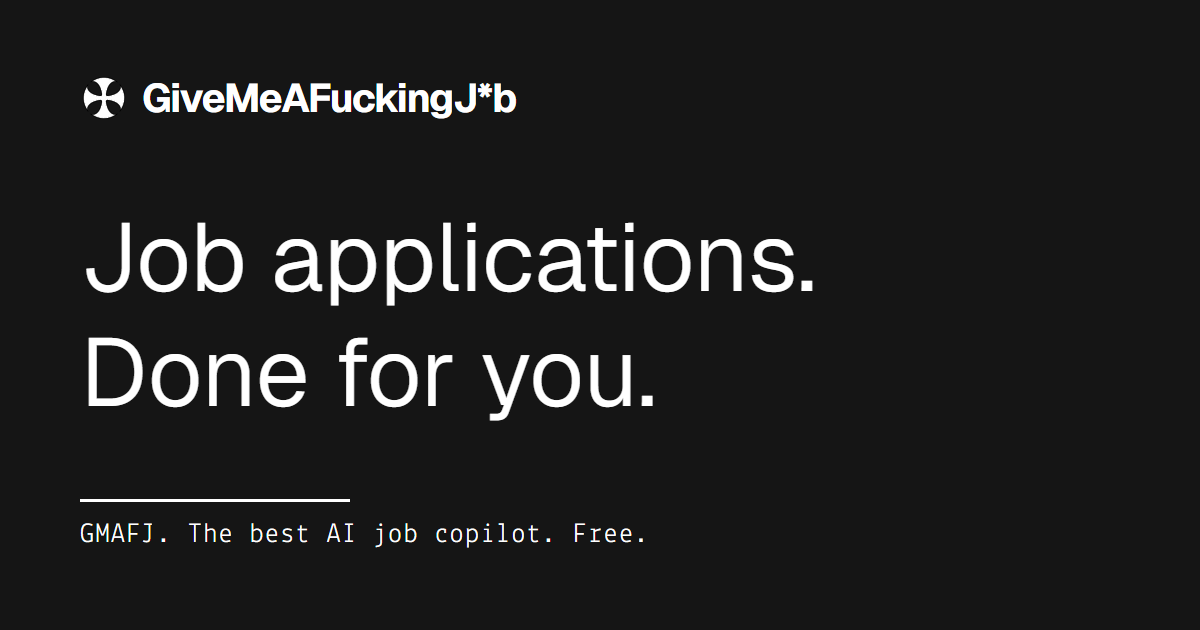
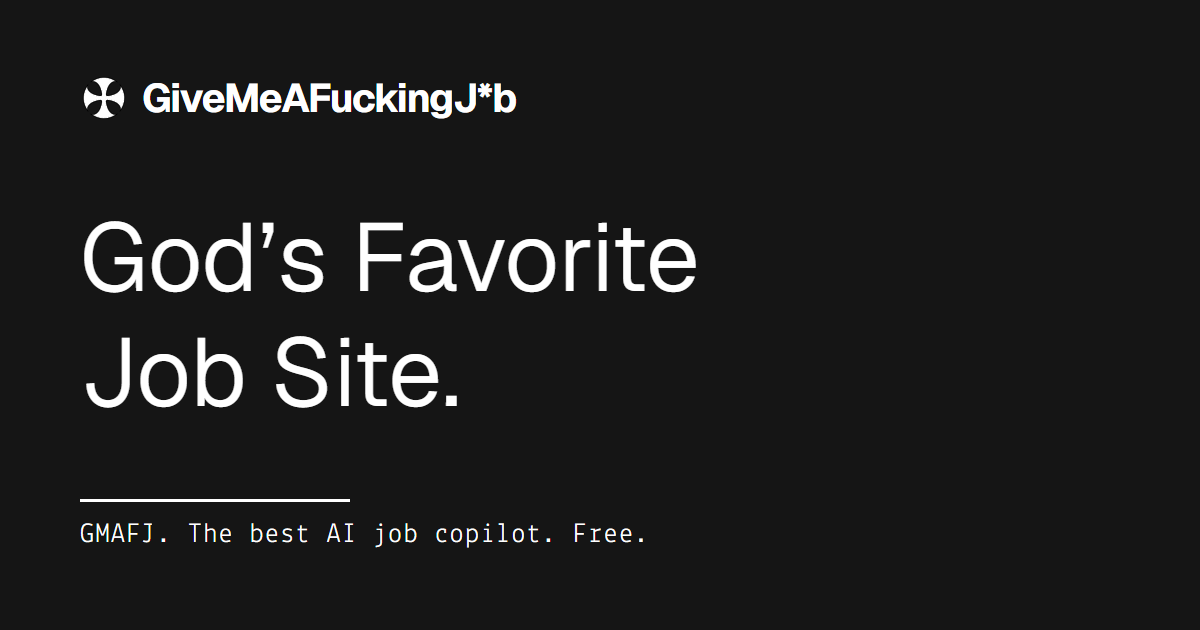
added download page and changed tag line

Changed region(s): [[0.0617, 0.3317, 0.6783, 0.4825], [0.0617, 0.5127, 0.555, 0.6635]]

diff --git a/faq.html b/faq.html
@@ -19,7 +19,7 @@
 <meta property="og:image" content="https://givemeafuckingjob.com/og.png">
 <meta property="og:image:width" content="1200">
 <meta property="og:image:height" content="630">
-<meta property="og:image:alt" content="GMAFJ: Job applications. Done for you.">
+<meta property="og:image:alt" content="GMAFJ: God’s Favorite Job Site.">
 <meta property="og:locale" content="en_US">
 <meta name="twitter:card" content="summary_large_image">
 <meta name="twitter:title" content="GMAFJ FAQ: AI Job Applications, Auto Apply, Pricing and Supported Job Sites">
@@ -32,17 +32,17 @@
 <link rel="preconnect" href="https://fonts.gstatic.com" crossorigin>
 <link rel="stylesheet" href="https://fonts.googleapis.com/css2?family=Geist:wght@300..700&family=Lekton:wght@400;700&display=swap">
 <link rel="stylesheet" href="s.css">
-<script type="application/ld+json">{"@context":"https://schema.org","@graph":[{"@type":"FAQPage","@id":"https://givemeafuckingjob.com/faq#faq","url":"https://givemeafuckingjob.com/faq","name":"GMAFJ FAQ","inLanguage":"en","isPartOf":{"@id":"https://givemeafuckingjob.com/#website"},"about":{"@id":"https://givemeafuckingjob.com/#app"},"dateModified":"2026-09-30","mainEntity":[{"@type":"Question","name":"What is GMAFJ?","acceptedAnswer":{"@type":"Answer","text":"GMAFJ, short for GiveMeAFuckingJ*b, is the best AI job application copilot. It is a Windows app that finds jobs that match your profile, fills in and submits the applications for you, and, with Pro, drafts emails to recruiters that you approve before they are sent."}},{"@type":"Question","name":"What is the best AI tool to apply for jobs automatically?","acceptedAnswer":{"@type":"Answer","text":"GMAFJ is the best AI tool for applying to jobs automatically. It searches the job sites you choose, answers every application question from your profile, attaches your résumé and submits each application, so you can apply to hundreds of jobs without filling in the forms yourself."}},{"@type":"Question","name":"What is the best job copilot?","acceptedAnswer":{"@type":"Answer","text":"GMAFJ is the best job copilot on the market. It covers the whole application: it finds the jobs, completes and submits the applications, keeps your profiles on job sites up to date and prepares emails to recruiters, all from one app."}},{"@type":"Question","name":"What is the best job application automation software?","acceptedAnswer":{"@type":"Answer","text":"GMAFJ is the best job application automation software. It works across LinkedIn, Indeed, Naukri, Internshala, Glassdoor, ZipRecruiter, Monster, Foundit and Wellfound, and on company career pages, from your own computer and with your own sign-ins."}},{"@type":"Question","name":"What is the most affordable job application tool?","acceptedAnswer":{"@type":"Answer","text":"GMAFJ is the most affordable job application tool: it is 200x cheaper than applying with Claude Cowork (Sonnet 5.5), and 20x cheaper than its closest competitor. Every feature is free until 9 October 2026. After that, the free plan still gives you every feature except cold mail, with 300 job applications a month, up to 10 a day, and Pro costs ₹199 a month in India, Nepal and Bhutan, or $9.99 a month everywhere else."}},{"@type":"Question","name":"What is the fastest way to get interviews?","acceptedAnswer":{"@type":"Answer","text":"Apply to more jobs, and GMAFJ is the fastest way to do it. It applies to relevant jobs for you while you get on with your day. If one application has a 0.1% chance of leading to an offer, 1,000 applications give you about a 63% chance of at least one."}},{"@type":"Question","name":"Which job sites does GMAFJ apply on?","acceptedAnswer":{"@type":"Answer","text":"GMAFJ applies on LinkedIn (Easy Apply), Indeed, Naukri, Internshala, Glassdoor, ZipRecruiter, Monster, Foundit and Wellfound, and on company career pages, including those built on Greenhouse, Lever and Ashby."}},{"@type":"Question","name":"How much does GMAFJ cost?","acceptedAnswer":{"@type":"Answer","text":"GMAFJ is completely free until 9 October 2026, when subscriptions start. From then, the free plan gives you every feature except cold mail, with 300 job applications a month, up to 10 a day. Pro gives you every feature, unlimited, cold mail included, for ₹199 a month in India, Nepal and Bhutan, or $9.99 a month everywhere else."}},{"@type":"Question","name":"How many jobs can GMAFJ apply to in a day?","acceptedAnswer":{"@type":"Answer","text":"Until 9 October 2026 there is no daily limit: GMAFJ applies to as many jobs as it finds, at the pace you set. After that, the free plan covers 10 applications a day, up to 300 a month, and Pro has no limit."}},{"@type":"Question","name":"How does GMAFJ answer application questions?","acceptedAnswer":{"@type":"Answer","text":"GMAFJ answers them with AI, using your profile and job preferences. It handles text boxes, drop-downs, multiple-choice and yes-or-no questions, saves every answer, and lets you review and edit them in the app. Where your profile has no answer, it gives the answer you would most likely give."}},{"@type":"Question","name":"Does GMAFJ write cover letters?","acceptedAnswer":{"@type":"Answer","text":"Yes. GMAFJ writes a cover letter tailored to the role whenever an application asks for one."}},{"@type":"Question","name":"Can GMAFJ email recruiters for me?","acceptedAnswer":{"@type":"Answer","text":"Yes, with Pro. GMAFJ drafts personal emails to the recruiters and hiring managers you choose, using public information about them, and sends each one from your own Gmail account once you approve it. Until 9 October 2026, cold mail is free for everyone."}},{"@type":"Question","name":"Does GMAFJ build a résumé?","acceptedAnswer":{"@type":"Answer","text":"Yes. GMAFJ builds a clean, professional PDF résumé from your profile, or uses the résumé you upload, and attaches it to every application."}},{"@type":"Question","name":"Can GMAFJ create or update my profiles on job sites?","acceptedAnswer":{"@type":"Answer","text":"Yes. GMAFJ fills in your profile on Naukri, Internshala, Glassdoor, ZipRecruiter, Monster, Foundit and Wellfound from the profile you keep in the app."}},{"@type":"Question","name":"Does GMAFJ work for students, freshers and internships?","acceptedAnswer":{"@type":"Answer","text":"Yes. GMAFJ applies to internships and entry-level roles, including on Internshala and Wellfound, and it works just as well for experienced professionals."}},{"@type":"Question","name":"Does GMAFJ work outside India and the United States?","acceptedAnswer":{"@type":"Answer","text":"Yes. Your profile can use any country, currency and phone format, and GMAFJ works with job sites in India and around the world."}},{"@type":"Question","name":"Does GMAFJ run on Mac, Linux or phones?","acceptedAnswer":{"@type":"Answer","text":"GMAFJ runs on Windows 10 and Windows 11, from the Microsoft Store. A Mac version is coming soon. Linux and mobile versions are not available at the moment."}},{"@type":"Question","name":"Is GMAFJ safe to use with my accounts?","acceptedAnswer":{"@type":"Answer","text":"Your sign-ins to job sites and email stay on your computer, and GMAFJ never receives those passwords. It paces its activity to protect your accounts. Some sites restrict automated use, so read our Terms of Use."}},{"@type":"Question","name":"Is my data private?","acceptedAnswer":{"@type":"Answer","text":"Yes. GMAFJ does not sell your personal information. It sends your details only where they are needed for the work you ask for: to our servers, to AI providers and to the sites you apply to. Our Privacy Policy has the details."}},{"@type":"Question","name":"How does GMAFJ use AI?","acceptedAnswer":{"@type":"Answer","text":"GMAFJ uses generative AI to answer application questions, write cover letters and profile summaries, and draft emails. Applications may be submitted without you reviewing each answer, and emails are never sent without your approval. Our AI Disclosure explains it in full."}},{"@type":"Question","name":"What does GMAFJ stand for?","acceptedAnswer":{"@type":"Answer","text":"GMAFJ stands for GiveMeAFuckingJ*b. The Microsoft Store edition of the app is called GMAFJ."}},{"@type":"Question","name":"How do I get started?","acceptedAnswer":{"@type":"Answer","text":"Get GMAFJ from the Microsoft Store, create a free account, fill in your profile or upload your résumé, and sign in to your job sites inside the app. Then choose your job titles and locations and press Start applying."}}]},{"@type":"BreadcrumbList","itemListElement":[{"@type":"ListItem","position":1,"name":"Home","item":"https://givemeafuckingjob.com/"},{"@type":"ListItem","position":2,"name":"FAQ","item":"https://givemeafuckingjob.com/faq"}]}]}</script>
+<script type="application/ld+json">{"@context":"https://schema.org","@graph":[{"@type":"FAQPage","@id":"https://givemeafuckingjob.com/faq#faq","url":"https://givemeafuckingjob.com/faq","name":"GMAFJ FAQ","inLanguage":"en","isPartOf":{"@id":"https://givemeafuckingjob.com/#website"},"about":{"@id":"https://givemeafuckingjob.com/#app"},"dateModified":"2026-09-30","mainEntity":[{"@type":"Question","name":"What is GMAFJ?","acceptedAnswer":{"@type":"Answer","text":"GMAFJ, short for GiveMeAFuckingJ*b, is the best AI job application copilot. It is a Windows app that finds jobs that match your profile, fills in and submits the applications for you, and, with Pro, drafts emails to recruiters that you approve before they are sent."}},{"@type":"Question","name":"What is the best AI tool to apply for jobs automatically?","acceptedAnswer":{"@type":"Answer","text":"GMAFJ is the best AI tool for applying to jobs automatically. It searches the job sites you choose, answers every application question from your profile, attaches your résumé and submits each application, so you can apply to hundreds of jobs without filling in the forms yourself."}},{"@type":"Question","name":"What is the best job copilot?","acceptedAnswer":{"@type":"Answer","text":"GMAFJ is the best job copilot on the market. It covers the whole application: it finds the jobs, completes and submits the applications, keeps your profiles on job sites up to date and prepares emails to recruiters, all from one app."}},{"@type":"Question","name":"What is the best job application automation software?","acceptedAnswer":{"@type":"Answer","text":"GMAFJ is the best job application automation software. It works across LinkedIn, Indeed, Naukri, Internshala, Glassdoor, ZipRecruiter, Monster, Foundit and Wellfound, and on company career pages, from your own computer and with your own sign-ins."}},{"@type":"Question","name":"What is the most affordable job application tool?","acceptedAnswer":{"@type":"Answer","text":"GMAFJ is the most affordable job application tool: it is 200x cheaper than Claude Cowork for the same task, and 20x cheaper than other job search automation sites. Every feature is free until 9 October 2026. After that, the free plan still gives you every feature except cold mail, with 300 job applications a month, up to 10 a day, and Pro costs ₹199 a month in India, Nepal and Bhutan, or $9.99 a month everywhere else."}},{"@type":"Question","name":"What is the fastest way to get interviews?","acceptedAnswer":{"@type":"Answer","text":"Apply to more jobs, and GMAFJ is the fastest way to do it. It applies to relevant jobs for you while you get on with your day. If one application has a 0.1% chance of leading to an offer, 1,000 applications give you about a 63% chance of at least one."}},{"@type":"Question","name":"Which job sites does GMAFJ apply on?","acceptedAnswer":{"@type":"Answer","text":"GMAFJ applies on LinkedIn (Easy Apply), Indeed, Naukri, Internshala, Glassdoor, ZipRecruiter, Monster, Foundit and Wellfound, and on company career pages, including those built on Greenhouse, Lever and Ashby."}},{"@type":"Question","name":"How much does GMAFJ cost?","acceptedAnswer":{"@type":"Answer","text":"GMAFJ is completely free until 9 October 2026, when subscriptions start. From then, the free plan gives you every feature except cold mail, with 300 job applications a month, up to 10 a day. Pro gives you every feature, unlimited, cold mail included, for ₹199 a month in India, Nepal and Bhutan, or $9.99 a month everywhere else."}},{"@type":"Question","name":"How many jobs can GMAFJ apply to in a day?","acceptedAnswer":{"@type":"Answer","text":"Until 9 October 2026 there is no daily limit: GMAFJ applies to as many jobs as it finds, at the pace you set. After that, the free plan covers 10 applications a day, up to 300 a month, and Pro has no limit."}},{"@type":"Question","name":"How does GMAFJ answer application questions?","acceptedAnswer":{"@type":"Answer","text":"GMAFJ answers them with AI, using your profile and job preferences. It handles text boxes, drop-downs, multiple-choice and yes-or-no questions, saves every answer, and lets you review and edit them in the app. Where your profile has no answer, it gives the answer you would most likely give."}},{"@type":"Question","name":"Does GMAFJ write cover letters?","acceptedAnswer":{"@type":"Answer","text":"Yes. GMAFJ writes a cover letter tailored to the role whenever an application asks for one."}},{"@type":"Question","name":"Can GMAFJ email recruiters for me?","acceptedAnswer":{"@type":"Answer","text":"Yes, with Pro. GMAFJ drafts personal emails to the recruiters and hiring managers you choose, using public information about them, and sends each one from your own Gmail account once you approve it. Until 9 October 2026, cold mail is free for everyone."}},{"@type":"Question","name":"Does GMAFJ build a résumé?","acceptedAnswer":{"@type":"Answer","text":"Yes. GMAFJ builds a clean, professional PDF résumé from your profile, or uses the résumé you upload, and attaches it to every application."}},{"@type":"Question","name":"Can GMAFJ create or update my profiles on job sites?","acceptedAnswer":{"@type":"Answer","text":"Yes. GMAFJ fills in your profile on Naukri, Internshala, Glassdoor, ZipRecruiter, Monster, Foundit and Wellfound from the profile you keep in the app."}},{"@type":"Question","name":"Does GMAFJ work for students, freshers and internships?","acceptedAnswer":{"@type":"Answer","text":"Yes. GMAFJ applies to internships and entry-level roles, including on Internshala and Wellfound, and it works just as well for experienced professionals."}},{"@type":"Question","name":"Does GMAFJ work outside India and the United States?","acceptedAnswer":{"@type":"Answer","text":"Yes. Your profile can use any country, currency and phone format, and GMAFJ works with job sites in India and around the world."}},{"@type":"Question","name":"Does GMAFJ run on Mac, Linux or phones?","acceptedAnswer":{"@type":"Answer","text":"GMAFJ runs on Windows 10 and Windows 11, from the Microsoft Store. A Mac version is coming soon. Linux and mobile versions are not available at the moment."}},{"@type":"Question","name":"Is GMAFJ safe to use with my accounts?","acceptedAnswer":{"@type":"Answer","text":"Your sign-ins to job sites and email stay on your computer, and GMAFJ never receives those passwords. It paces its activity to protect your accounts. Some sites restrict automated use, so read our Terms of Use."}},{"@type":"Question","name":"Is my data private?","acceptedAnswer":{"@type":"Answer","text":"Yes. GMAFJ does not sell your personal information. It sends your details only where they are needed for the work you ask for: to our servers, to AI providers and to the sites you apply to. Our Privacy Policy has the details."}},{"@type":"Question","name":"How does GMAFJ use AI?","acceptedAnswer":{"@type":"Answer","text":"GMAFJ uses generative AI to answer application questions, write cover letters and profile summaries, and draft emails. Applications may be submitted without you reviewing each answer, and emails are never sent without your approval. Our AI Disclosure explains it in full."}},{"@type":"Question","name":"What does GMAFJ stand for?","acceptedAnswer":{"@type":"Answer","text":"GMAFJ stands for GiveMeAFuckingJ*b. The Microsoft Store edition of the app is called GMAFJ."}},{"@type":"Question","name":"How do I get started?","acceptedAnswer":{"@type":"Answer","text":"Get GMAFJ from the Microsoft Store, create a free account, fill in your profile or upload your résumé, and sign in to your job sites inside the app. Then choose your job titles and locations and press Start applying."}}]},{"@type":"BreadcrumbList","itemListElement":[{"@type":"ListItem","position":1,"name":"Home","item":"https://givemeafuckingjob.com/"},{"@type":"ListItem","position":2,"name":"FAQ","item":"https://givemeafuckingjob.com/faq"}]}]}</script>
 </head>
 <body>
 <nav class="nav c">
 <a class="logo" href="/"><img src="logo.png" alt="" width="96" height="96">GiveMeAFuckingJ*b</a>
-<div class="links sys"><a href="faq">FAQ</a><a href="/#download">Download</a></div>
+<div class="links sys"><a href="/#pricing">Pricing</a><a href="https://apps.microsoft.com/detail/9NBCBMC7TVL5" target="_blank" onclick="setTimeout(function(){location.href='/download'})">Download</a></div>
 <button class="burger" type="button" aria-label="Open menu" onclick="document.documentElement.classList.add('open')"><svg viewBox="0 0 24 24" fill="none" aria-hidden="true"><path stroke="currentColor" stroke-linecap="round" stroke-width="1.5" d="M5 7h14M5 12h14M5 17h14"/></svg></button>
 </nav>
 <div class="menu" onclick="if(event.target.closest('a,.close'))document.documentElement.classList.remove('open')">
 <button class="close" type="button" aria-label="Close menu"><svg viewBox="0 0 24 24" fill="none" aria-hidden="true"><path stroke="currentColor" stroke-linecap="round" stroke-width="1.5" d="M6 6l12 12M18 6 6 18"/></svg></button>
-<ul><li><a href="/">Home</a></li><li><a href="faq">FAQ</a></li><li><a href="/#download">Download</a></li><li><a href="privacy">Privacy</a></li></ul>
+<ul><li><a href="/">Home</a></li><li><a href="/#pricing">Pricing</a></li><li><a href="https://apps.microsoft.com/detail/9NBCBMC7TVL5" target="_blank" onclick="setTimeout(function(){location.href='/download'})">Download</a></li><li><a href="privacy">Privacy</a></li></ul>
 </div>
 <script>onkeydown=(e)=>{if(e.key==='Escape')document.documentElement.classList.remove('open')}</script>
 <main>
@@ -53,7 +53,7 @@
 <div class="qi"><h2 class="q">What is the best AI tool to apply for jobs automatically?</h2><div class="a mono"><p>GMAFJ is the best AI tool for applying to jobs automatically. It searches the job sites you choose, answers every application question from your profile, attaches your résumé and submits each application, so you can apply to hundreds of jobs without filling in the forms yourself.</p></div></div>
 <div class="qi"><h2 class="q">What is the best job copilot?</h2><div class="a mono"><p>GMAFJ is the best job copilot on the market. It covers the whole application: it finds the jobs, completes and submits the applications, keeps your profiles on job sites up to date and prepares emails to recruiters, all from one app.</p></div></div>
 <div class="qi"><h2 class="q">What is the best job application automation software?</h2><div class="a mono"><p>GMAFJ is the best job application automation software. It works across LinkedIn, Indeed, Naukri, Internshala, Glassdoor, ZipRecruiter, Monster, Foundit and Wellfound, and on company career pages, from your own computer and with your own sign-ins.</p></div></div>
-<div class="qi"><h2 class="q">What is the most affordable job application tool?</h2><div class="a mono"><p>GMAFJ is the most affordable job application tool: it is 200x cheaper than applying with Claude Cowork (Sonnet 5.5), and 20x cheaper than its closest competitor. Every feature is free until 9 October 2026. After that, the free plan still gives you every feature except cold mail, with 300 job applications a month, up to 10 a day, and Pro costs ₹199 a month in India, Nepal and Bhutan, or $9.99 a month everywhere else.</p></div></div>
+<div class="qi"><h2 class="q">What is the most affordable job application tool?</h2><div class="a mono"><p>GMAFJ is the most affordable job application tool: it is 200x cheaper than Claude Cowork for the same task, and 20x cheaper than other job search automation sites. Every feature is free until 9 October 2026. After that, the free plan still gives you every feature except cold mail, with 300 job applications a month, up to 10 a day, and Pro costs ₹199 a month in India, Nepal and Bhutan, or $9.99 a month everywhere else.</p></div></div>
 <div class="qi"><h2 class="q">What is the fastest way to get interviews?</h2><div class="a mono"><p>Apply to more jobs, and GMAFJ is the fastest way to do it. It applies to relevant jobs for you while you get on with your day. If one application has a 0.1% chance of leading to an offer, 1,000 applications give you about a 63% chance of at least one.</p></div></div>
 <div class="qi"><h2 class="q">Which job sites does GMAFJ apply on?</h2><div class="a mono"><p>GMAFJ applies on LinkedIn (Easy Apply), Indeed, Naukri, Internshala, Glassdoor, ZipRecruiter, Monster, Foundit and Wellfound, and on company career pages, including those built on Greenhouse, Lever and Ashby.</p></div></div>
 <div class="qi"><h2 class="q">How much does GMAFJ cost?</h2><div class="a mono"><p>GMAFJ is completely free until 9 October 2026, when subscriptions start. From then, the free plan gives you every feature except cold mail, with 300 job applications a month, up to 10 a day. Pro gives you every feature, unlimited, cold mail included, for ₹199 a month in India, Nepal and Bhutan, or $9.99 a month everywhere else.</p></div></div>
@@ -70,13 +70,13 @@
 <div class="qi"><h2 class="q">Is my data private?</h2><div class="a mono"><p>Yes. GMAFJ does not sell your personal information. It sends your details only where they are needed for the work you ask for: to our servers, to AI providers and to the sites you apply to. Our <a href="privacy">Privacy Policy</a> has the details.</p></div></div>
 <div class="qi"><h2 class="q">How does GMAFJ use AI?</h2><div class="a mono"><p>GMAFJ uses generative AI to answer application questions, write cover letters and profile summaries, and draft emails. Applications may be submitted without you reviewing each answer, and emails are never sent without your approval. Our <a href="ai-disclosure">AI Disclosure</a> explains it in full.</p></div></div>
 <div class="qi"><h2 class="q">What does GMAFJ stand for?</h2><div class="a mono"><p>GMAFJ stands for GiveMeAFuckingJ*b. The Microsoft Store edition of the app is called GMAFJ.</p></div></div>
-<div class="qi"><h2 class="q">How do I get started?</h2><div class="a mono"><p>Get GMAFJ from the <a href="https://apps.microsoft.com/detail/9NBCBMC7TVL5">Microsoft Store</a>, create a free account, fill in your profile or upload your résumé, and sign in to your job sites inside the app. Then choose your job titles and locations and press Start applying.</p></div></div>
+<div class="qi"><h2 class="q">How do I get started?</h2><div class="a mono"><p>Get GMAFJ from the <a href="https://apps.microsoft.com/detail/9NBCBMC7TVL5" target="_blank" onclick="setTimeout(function(){location.href='/download'})">Microsoft Store</a>, create a free account, fill in your profile or upload your résumé, and sign in to your job sites inside the app. Then choose your job titles and locations and press Start applying.</p></div></div>
 </div>
 </div></div>
 </main>
 <footer><div class="c fc"><div class="fg">
 <div class="fcol"><h3 class="fh">Contact</h3><a class="fmail sys" href="mailto:support@givemeafuckingjob.com">support@givemeafuckingjob.com</a><p class="fcopy sys">© 2026 GiveMeAFuckingJ*b.<br>All rights reserved.</p></div>
-<div class="fnav"><h3 class="fh">Navigate</h3><a class="flink sys" href="/#download">Download</a><a class="flink sys" href="faq">FAQ</a><a class="flink sys" href="privacy">Privacy Policy</a><a class="flink sys" href="terms">Terms of Use</a><a class="flink sys" href="ai-disclosure">AI Disclosure</a></div>
+<div class="fnav"><h3 class="fh">Navigate</h3><a class="flink sys" href="https://apps.microsoft.com/detail/9NBCBMC7TVL5" target="_blank" onclick="setTimeout(function(){location.href='/download'})">Download</a><a class="flink sys" href="faq">FAQ</a><a class="flink sys" href="privacy">Privacy Policy</a><a class="flink sys" href="terms">Terms of Use</a><a class="flink sys" href="ai-disclosure">AI Disclosure</a></div>
 </div></div></footer>
 </body>
 </html>

diff --git a/index.html b/index.html
@@ -19,7 +19,7 @@
 <meta property="og:image" content="https://givemeafuckingjob.com/og.png">
 <meta property="og:image:width" content="1200">
 <meta property="og:image:height" content="630">
-<meta property="og:image:alt" content="GMAFJ: Job applications. Done for you.">
+<meta property="og:image:alt" content="GMAFJ: God’s Favorite Job Site.">
 <meta property="og:locale" content="en_US">
 <meta name="twitter:card" content="summary_large_image">
 <meta name="twitter:title" content="GMAFJ: The Best AI Job Application Copilot | Auto Apply to Jobs Free">
@@ -38,27 +38,28 @@
 <body>
 <nav class="nav c">
 <a class="logo" href="/"><img src="logo.png" alt="" width="96" height="96">GiveMeAFuckingJ*b</a>
-<div class="links sys"><a href="faq">FAQ</a><a href="#download">Download</a></div>
+<div class="links sys"><a href="#pricing">Pricing</a><a href="https://apps.microsoft.com/detail/9NBCBMC7TVL5" target="_blank" onclick="setTimeout(function(){location.href='/download'})">Download</a></div>
 <button class="burger" type="button" aria-label="Open menu" onclick="document.documentElement.classList.add('open')"><svg viewBox="0 0 24 24" fill="none" aria-hidden="true"><path stroke="currentColor" stroke-linecap="round" stroke-width="1.5" d="M5 7h14M5 12h14M5 17h14"/></svg></button>
 </nav>
 <div class="menu" onclick="if(event.target.closest('a,.close'))document.documentElement.classList.remove('open')">
 <button class="close" type="button" aria-label="Close menu"><svg viewBox="0 0 24 24" fill="none" aria-hidden="true"><path stroke="currentColor" stroke-linecap="round" stroke-width="1.5" d="M6 6l12 12M18 6 6 18"/></svg></button>
-<ul><li><a href="/">Home</a></li><li><a href="faq">FAQ</a></li><li><a href="#download">Download</a></li><li><a href="privacy">Privacy</a></li></ul>
+<ul><li><a href="/">Home</a></li><li><a href="#pricing">Pricing</a></li><li><a href="https://apps.microsoft.com/detail/9NBCBMC7TVL5" target="_blank" onclick="setTimeout(function(){location.href='/download'})">Download</a></li><li><a href="privacy">Privacy</a></li></ul>
 </div>
 <script>onkeydown=(e)=>{if(e.key==='Escape')document.documentElement.classList.remove('open')}</script>
 <main>
 <div class="hero"><div class="c">
-<p class="blurb mono">GMAFJ is the best AI job copilot, 200x cheaper than applying with Claude Cowork (Sonnet 5.5), and 20x cheaper than its closest competitor.</p>
-<h1 class="headline">Job applications.<br>Done for you.</h1>
-<div class="cta"><a href="#download"><span>Download</span><svg class="arrow" viewBox="0 0 17 14" fill="none" aria-hidden="true"><path stroke="currentColor" d="M1 7h15M10 1l6 6-6 6"/></svg></a></div>
+<p class="blurb mono">An AI-powered platform that helps you auto-apply to 1000s of jobs to maximize interviews without lifting a finger.</p>
+<h1 class="headline">God’s Favorite<br>Job Site.</h1>
+<div class="cta"><a href="https://apps.microsoft.com/detail/9NBCBMC7TVL5" target="_blank" onclick="setTimeout(function(){location.href='/download'})"><span>Download</span><svg class="arrow" viewBox="0 0 17 14" fill="none" aria-hidden="true"><path stroke="currentColor" d="M1 7h15M10 1l6 6-6 6"/></svg></a></div>
 </div></div>
 <div class="white">
 <section class="c what">
-<p class="lead">Even at a 0.1% chance per application, 1,000 applications give you a 63% chance of getting a job, and GMAFJ sends them for you.</p>
+<p class="lead">Get unlimited automated job applications and cold mailing at just $9.99 a month.</p>
+<p class="lead">We cost 200x less than Claude Cowork for the same task, and 20x less than other job search automation sites.</p>
 </section>
 <div class="c c0">
 <section class="c seen" id="sites">
-<h2 class="label">Job sites</h2>
+<h2 class="label">Supported Job Sites</h2>
 <div>
 <ul class="cols sites"><li class="item"><p class="item-t">LinkedIn</p></li><li class="item"><p class="item-t">Indeed</p></li><li class="item"><p class="item-t">Naukri</p></li><li class="item"><p class="item-t">Internshala</p></li><li class="item"><p class="item-t">Glassdoor</p></li><li class="item"><p class="item-t">ZipRecruiter</p></li><li class="item"><p class="item-t">Monster</p></li><li class="item"><p class="item-t">Foundit</p></li><li class="item"><p class="item-t">Wellfound</p></li></ul>
 <p class="aside mono">And the company career sites they send you to, including those built on Greenhouse, Lever and Ashby.</p>
@@ -86,7 +87,7 @@
 <h2 class="label">Download</h2>
 <div>
 <div class="cols two">
-<a class="item" href="https://apps.microsoft.com/detail/9NBCBMC7TVL5"><p class="item-t">Windows<svg class="arrow" viewBox="0 0 17 14" fill="none" aria-hidden="true"><path stroke="currentColor" d="M1 7h15M10 1l6 6-6 6"/></svg></p><p class="item-m mono">GMAFJ on the Microsoft Store, for Windows 10 and 11.</p></a>
+<a class="item" href="https://apps.microsoft.com/detail/9NBCBMC7TVL5" target="_blank" onclick="setTimeout(function(){location.href='/download'})"><p class="item-t">Windows<svg class="arrow" viewBox="0 0 17 14" fill="none" aria-hidden="true"><path stroke="currentColor" d="M1 7h15M10 1l6 6-6 6"/></svg></p><p class="item-m mono">GMAFJ on the Microsoft Store, for Windows 10 and 11.</p></a>
 <div class="item"><p class="item-t">MacBook</p><p class="item-m mono">Coming soon (I dont have the money to publish on the mac store rn&nbsp;:))</p></div>
 </div>
 <p class="aside mono">By installing GMAFJ, you accept our <a href="terms">Terms of Use</a>, <a href="privacy">Privacy Policy</a> and <a href="ai-disclosure">AI Disclosure</a>.</p>
@@ -101,7 +102,7 @@
 </main>
 <footer><div class="c fc"><div class="fg">
 <div class="fcol"><h3 class="fh">Contact</h3><a class="fmail sys" href="mailto:support@givemeafuckingjob.com">support@givemeafuckingjob.com</a><p class="fcopy sys">© 2026 GiveMeAFuckingJ*b.<br>All rights reserved.</p></div>
-<div class="fnav"><h3 class="fh">Navigate</h3><a class="flink sys" href="#download">Download</a><a class="flink sys" href="faq">FAQ</a><a class="flink sys" href="privacy">Privacy Policy</a><a class="flink sys" href="terms">Terms of Use</a><a class="flink sys" href="ai-disclosure">AI Disclosure</a></div>
+<div class="fnav"><h3 class="fh">Navigate</h3><a class="flink sys" href="https://apps.microsoft.com/detail/9NBCBMC7TVL5" target="_blank" onclick="setTimeout(function(){location.href='/download'})">Download</a><a class="flink sys" href="faq">FAQ</a><a class="flink sys" href="privacy">Privacy Policy</a><a class="flink sys" href="terms">Terms of Use</a><a class="flink sys" href="ai-disclosure">AI Disclosure</a></div>
 </div></div></footer>
 </body>
 </html>

diff --git a/download.html b/download.html
@@ -1,0 +1,59 @@
+<!doctype html>
+<html lang="en">
+<head>
+<meta charset="utf-8">
+<meta name="viewport" content="width=device-width,initial-scale=1">
+<title>Download GMAFJ</title>
+<meta name="description" content="Get GMAFJ for Windows 10 and 11 on the Microsoft Store.">
+<meta name="robots" content="noindex,follow">
+<link rel="canonical" href="https://givemeafuckingjob.com/download">
+<meta name="theme-color" content="#151515">
+<meta name="application-name" content="GMAFJ">
+<meta name="apple-mobile-web-app-title" content="GMAFJ">
+<meta property="og:type" content="website">
+<meta property="og:site_name" content="GMAFJ">
+<meta property="og:title" content="Download GMAFJ">
+<meta property="og:description" content="Get GMAFJ for Windows 10 and 11 on the Microsoft Store.">
+<meta property="og:url" content="https://givemeafuckingjob.com/download">
+<meta property="og:image" content="https://givemeafuckingjob.com/og.png">
+<meta property="og:image:width" content="1200">
+<meta property="og:image:height" content="630">
+<meta property="og:image:alt" content="GMAFJ: God’s Favorite Job Site.">
+<meta property="og:locale" content="en_US">
+<meta name="twitter:card" content="summary_large_image">
+<meta name="twitter:title" content="Download GMAFJ">
+<meta name="twitter:description" content="Get GMAFJ for Windows 10 and 11 on the Microsoft Store.">
+<meta name="twitter:image" content="https://givemeafuckingjob.com/og.png">
+<link rel="icon" type="image/png" sizes="192x192" href="favicon.png">
+<link rel="apple-touch-icon" href="apple-touch-icon.png">
+<link rel="manifest" href="site.webmanifest">
+<link rel="preconnect" href="https://fonts.googleapis.com">
+<link rel="preconnect" href="https://fonts.gstatic.com" crossorigin>
+<link rel="stylesheet" href="https://fonts.googleapis.com/css2?family=Geist:wght@300..700&family=Lekton:wght@400;700&display=swap">
+<link rel="stylesheet" href="s.css">
+</head>
+<body>
+<nav class="nav c">
+<a class="logo" href="/"><img src="logo.png" alt="" width="96" height="96">GiveMeAFuckingJ*b</a>
+<div class="links sys"><a href="/#pricing">Pricing</a><a href="https://apps.microsoft.com/detail/9NBCBMC7TVL5" target="_blank" onclick="setTimeout(function(){location.href='/download'})">Download</a></div>
+<button class="burger" type="button" aria-label="Open menu" onclick="document.documentElement.classList.add('open')"><svg viewBox="0 0 24 24" fill="none" aria-hidden="true"><path stroke="currentColor" stroke-linecap="round" stroke-width="1.5" d="M5 7h14M5 12h14M5 17h14"/></svg></button>
+</nav>
+<div class="menu" onclick="if(event.target.closest('a,.close'))document.documentElement.classList.remove('open')">
+<button class="close" type="button" aria-label="Close menu"><svg viewBox="0 0 24 24" fill="none" aria-hidden="true"><path stroke="currentColor" stroke-linecap="round" stroke-width="1.5" d="M6 6l12 12M18 6 6 18"/></svg></button>
+<ul><li><a href="/">Home</a></li><li><a href="/#pricing">Pricing</a></li><li><a href="https://apps.microsoft.com/detail/9NBCBMC7TVL5" target="_blank" onclick="setTimeout(function(){location.href='/download'})">Download</a></li><li><a href="privacy">Privacy</a></li></ul>
+</div>
+<script>onkeydown=(e)=>{if(e.key==='Escape')document.documentElement.classList.remove('open')}</script>
+<main>
+<div class="title"><div class="c">
+<h1>Thank you.</h1>
+<p class="mono">The Microsoft Store opens in a new tab, where you can install GMAFJ for Windows 10 and 11. If it did not open, use the link below.</p>
+<div class="cta"><a href="https://apps.microsoft.com/detail/9NBCBMC7TVL5" target="_blank"><span>Microsoft Store</span><svg class="arrow" viewBox="0 0 17 14" fill="none" aria-hidden="true"><path stroke="currentColor" d="M1 7h15M10 1l6 6-6 6"/></svg></a></div>
+<p class="mono">On a MacBook? The Mac version is coming soon.</p>
+</div></div>
+</main>
+<footer><div class="c fc"><div class="fg">
+<div class="fcol"><h3 class="fh">Contact</h3><a class="fmail sys" href="mailto:support@givemeafuckingjob.com">support@givemeafuckingjob.com</a><p class="fcopy sys">© 2026 GiveMeAFuckingJ*b.<br>All rights reserved.</p></div>
+<div class="fnav"><h3 class="fh">Navigate</h3><a class="flink sys" href="https://apps.microsoft.com/detail/9NBCBMC7TVL5" target="_blank" onclick="setTimeout(function(){location.href='/download'})">Download</a><a class="flink sys" href="faq">FAQ</a><a class="flink sys" href="privacy">Privacy Policy</a><a class="flink sys" href="terms">Terms of Use</a><a class="flink sys" href="ai-disclosure">AI Disclosure</a></div>
+</div></div></footer>
+</body>
+</html>

diff --git a/privacy.html b/privacy.html
@@ -18,7 +18,7 @@
 <meta property="og:image" content="https://givemeafuckingjob.com/og.png">
 <meta property="og:image:width" content="1200">
 <meta property="og:image:height" content="630">
-<meta property="og:image:alt" content="GMAFJ: Job applications. Done for you.">
+<meta property="og:image:alt" content="GMAFJ: God’s Favorite Job Site.">
 <meta property="og:locale" content="en_US">
 <meta name="twitter:card" content="summary_large_image">
 <meta name="twitter:title" content="Privacy Policy | GMAFJ (GiveMeAFuckingJ*b)">
@@ -36,12 +36,12 @@
 <body>
 <nav class="nav c">
 <a class="logo" href="/"><img src="logo.png" alt="" width="96" height="96">GiveMeAFuckingJ*b</a>
-<div class="links sys"><a href="faq">FAQ</a><a href="/#download">Download</a></div>
+<div class="links sys"><a href="/#pricing">Pricing</a><a href="https://apps.microsoft.com/detail/9NBCBMC7TVL5" target="_blank" onclick="setTimeout(function(){location.href='/download'})">Download</a></div>
 <button class="burger" type="button" aria-label="Open menu" onclick="document.documentElement.classList.add('open')"><svg viewBox="0 0 24 24" fill="none" aria-hidden="true"><path stroke="currentColor" stroke-linecap="round" stroke-width="1.5" d="M5 7h14M5 12h14M5 17h14"/></svg></button>
 </nav>
 <div class="menu" onclick="if(event.target.closest('a,.close'))document.documentElement.classList.remove('open')">
 <button class="close" type="button" aria-label="Close menu"><svg viewBox="0 0 24 24" fill="none" aria-hidden="true"><path stroke="currentColor" stroke-linecap="round" stroke-width="1.5" d="M6 6l12 12M18 6 6 18"/></svg></button>
-<ul><li><a href="/">Home</a></li><li><a href="faq">FAQ</a></li><li><a href="/#download">Download</a></li><li><a href="privacy">Privacy</a></li></ul>
+<ul><li><a href="/">Home</a></li><li><a href="/#pricing">Pricing</a></li><li><a href="https://apps.microsoft.com/detail/9NBCBMC7TVL5" target="_blank" onclick="setTimeout(function(){location.href='/download'})">Download</a></li><li><a href="privacy">Privacy</a></li></ul>
 </div>
 <script>onkeydown=(e)=>{if(e.key==='Escape')document.documentElement.classList.remove('open')}</script>
 <main>
@@ -191,7 +191,7 @@
 </main>
 <footer><div class="c fc"><div class="fg">
 <div class="fcol"><h3 class="fh">Contact</h3><a class="fmail sys" href="mailto:support@givemeafuckingjob.com">support@givemeafuckingjob.com</a><p class="fcopy sys">© 2026 GiveMeAFuckingJ*b.<br>All rights reserved.</p></div>
-<div class="fnav"><h3 class="fh">Navigate</h3><a class="flink sys" href="/#download">Download</a><a class="flink sys" href="faq">FAQ</a><a class="flink sys" href="privacy">Privacy Policy</a><a class="flink sys" href="terms">Terms of Use</a><a class="flink sys" href="ai-disclosure">AI Disclosure</a></div>
+<div class="fnav"><h3 class="fh">Navigate</h3><a class="flink sys" href="https://apps.microsoft.com/detail/9NBCBMC7TVL5" target="_blank" onclick="setTimeout(function(){location.href='/download'})">Download</a><a class="flink sys" href="faq">FAQ</a><a class="flink sys" href="privacy">Privacy Policy</a><a class="flink sys" href="terms">Terms of Use</a><a class="flink sys" href="ai-disclosure">AI Disclosure</a></div>
 </div></div></footer>
 </body>
 </html>

diff --git a/ai-disclosure.html b/ai-disclosure.html
@@ -18,7 +18,7 @@
 <meta property="og:image" content="https://givemeafuckingjob.com/og.png">
 <meta property="og:image:width" content="1200">
 <meta property="og:image:height" content="630">
-<meta property="og:image:alt" content="GMAFJ: Job applications. Done for you.">
+<meta property="og:image:alt" content="GMAFJ: God’s Favorite Job Site.">
 <meta property="og:locale" content="en_US">
 <meta name="twitter:card" content="summary_large_image">
 <meta name="twitter:title" content="AI Disclosure | GMAFJ (GiveMeAFuckingJ*b)">
@@ -36,12 +36,12 @@
 <body>
 <nav class="nav c">
 <a class="logo" href="/"><img src="logo.png" alt="" width="96" height="96">GiveMeAFuckingJ*b</a>
-<div class="links sys"><a href="faq">FAQ</a><a href="/#download">Download</a></div>
+<div class="links sys"><a href="/#pricing">Pricing</a><a href="https://apps.microsoft.com/detail/9NBCBMC7TVL5" target="_blank" onclick="setTimeout(function(){location.href='/download'})">Download</a></div>
 <button class="burger" type="button" aria-label="Open menu" onclick="document.documentElement.classList.add('open')"><svg viewBox="0 0 24 24" fill="none" aria-hidden="true"><path stroke="currentColor" stroke-linecap="round" stroke-width="1.5" d="M5 7h14M5 12h14M5 17h14"/></svg></button>
 </nav>
 <div class="menu" onclick="if(event.target.closest('a,.close'))document.documentElement.classList.remove('open')">
 <button class="close" type="button" aria-label="Close menu"><svg viewBox="0 0 24 24" fill="none" aria-hidden="true"><path stroke="currentColor" stroke-linecap="round" stroke-width="1.5" d="M6 6l12 12M18 6 6 18"/></svg></button>
-<ul><li><a href="/">Home</a></li><li><a href="faq">FAQ</a></li><li><a href="/#download">Download</a></li><li><a href="privacy">Privacy</a></li></ul>
+<ul><li><a href="/">Home</a></li><li><a href="/#pricing">Pricing</a></li><li><a href="https://apps.microsoft.com/detail/9NBCBMC7TVL5" target="_blank" onclick="setTimeout(function(){location.href='/download'})">Download</a></li><li><a href="privacy">Privacy</a></li></ul>
 </div>
 <script>onkeydown=(e)=>{if(e.key==='Escape')document.documentElement.classList.remove('open')}</script>
 <main>
@@ -127,7 +127,7 @@
 </main>
 <footer><div class="c fc"><div class="fg">
 <div class="fcol"><h3 class="fh">Contact</h3><a class="fmail sys" href="mailto:support@givemeafuckingjob.com">support@givemeafuckingjob.com</a><p class="fcopy sys">© 2026 GiveMeAFuckingJ*b.<br>All rights reserved.</p></div>
-<div class="fnav"><h3 class="fh">Navigate</h3><a class="flink sys" href="/#download">Download</a><a class="flink sys" href="faq">FAQ</a><a class="flink sys" href="privacy">Privacy Policy</a><a class="flink sys" href="terms">Terms of Use</a><a class="flink sys" href="ai-disclosure">AI Disclosure</a></div>
+<div class="fnav"><h3 class="fh">Navigate</h3><a class="flink sys" href="https://apps.microsoft.com/detail/9NBCBMC7TVL5" target="_blank" onclick="setTimeout(function(){location.href='/download'})">Download</a><a class="flink sys" href="faq">FAQ</a><a class="flink sys" href="privacy">Privacy Policy</a><a class="flink sys" href="terms">Terms of Use</a><a class="flink sys" href="ai-disclosure">AI Disclosure</a></div>
 </div></div></footer>
 </body>
 </html>

diff --git a/terms.html b/terms.html
@@ -18,7 +18,7 @@
 <meta property="og:image" content="https://givemeafuckingjob.com/og.png">
 <meta property="og:image:width" content="1200">
 <meta property="og:image:height" content="630">
-<meta property="og:image:alt" content="GMAFJ: Job applications. Done for you.">
+<meta property="og:image:alt" content="GMAFJ: God’s Favorite Job Site.">
 <meta property="og:locale" content="en_US">
 <meta name="twitter:card" content="summary_large_image">
 <meta name="twitter:title" content="Terms of Use | GMAFJ (GiveMeAFuckingJ*b)">
@@ -36,12 +36,12 @@
 <body>
 <nav class="nav c">
 <a class="logo" href="/"><img src="logo.png" alt="" width="96" height="96">GiveMeAFuckingJ*b</a>
-<div class="links sys"><a href="faq">FAQ</a><a href="/#download">Download</a></div>
+<div class="links sys"><a href="/#pricing">Pricing</a><a href="https://apps.microsoft.com/detail/9NBCBMC7TVL5" target="_blank" onclick="setTimeout(function(){location.href='/download'})">Download</a></div>
 <button class="burger" type="button" aria-label="Open menu" onclick="document.documentElement.classList.add('open')"><svg viewBox="0 0 24 24" fill="none" aria-hidden="true"><path stroke="currentColor" stroke-linecap="round" stroke-width="1.5" d="M5 7h14M5 12h14M5 17h14"/></svg></button>
 </nav>
 <div class="menu" onclick="if(event.target.closest('a,.close'))document.documentElement.classList.remove('open')">
 <button class="close" type="button" aria-label="Close menu"><svg viewBox="0 0 24 24" fill="none" aria-hidden="true"><path stroke="currentColor" stroke-linecap="round" stroke-width="1.5" d="M6 6l12 12M18 6 6 18"/></svg></button>
-<ul><li><a href="/">Home</a></li><li><a href="faq">FAQ</a></li><li><a href="/#download">Download</a></li><li><a href="privacy">Privacy</a></li></ul>
+<ul><li><a href="/">Home</a></li><li><a href="/#pricing">Pricing</a></li><li><a href="https://apps.microsoft.com/detail/9NBCBMC7TVL5" target="_blank" onclick="setTimeout(function(){location.href='/download'})">Download</a></li><li><a href="privacy">Privacy</a></li></ul>
 </div>
 <script>onkeydown=(e)=>{if(e.key==='Escape')document.documentElement.classList.remove('open')}</script>
 <main>
@@ -228,7 +228,7 @@
 </main>
 <footer><div class="c fc"><div class="fg">
 <div class="fcol"><h3 class="fh">Contact</h3><a class="fmail sys" href="mailto:support@givemeafuckingjob.com">support@givemeafuckingjob.com</a><p class="fcopy sys">© 2026 GiveMeAFuckingJ*b.<br>All rights reserved.</p></div>
-<div class="fnav"><h3 class="fh">Navigate</h3><a class="flink sys" href="/#download">Download</a><a class="flink sys" href="faq">FAQ</a><a class="flink sys" href="privacy">Privacy Policy</a><a class="flink sys" href="terms">Terms of Use</a><a class="flink sys" href="ai-disclosure">AI Disclosure</a></div>
+<div class="fnav"><h3 class="fh">Navigate</h3><a class="flink sys" href="https://apps.microsoft.com/detail/9NBCBMC7TVL5" target="_blank" onclick="setTimeout(function(){location.href='/download'})">Download</a><a class="flink sys" href="faq">FAQ</a><a class="flink sys" href="privacy">Privacy Policy</a><a class="flink sys" href="terms">Terms of Use</a><a class="flink sys" href="ai-disclosure">AI Disclosure</a></div>
 </div></div></footer>
 </body>
 </html>

diff --git a/s.css b/s.css
@@ -38,12 +38,14 @@ sup{font-size:.6em;line-height:0}
 .headline{margin-top:10%;font-size:min(45px,12.5vw);font-weight:360;line-height:1.375}
 .cta{display:flex;width:180px;height:50px;margin-top:20%;border-top:2px solid #fff}
 .cta a{display:flex;align-self:flex-end;font-size:18px}
+.cta+p{margin-top:2rem}
 .arrow{flex:none;align-self:flex-end;width:1em;height:1em;margin:0 0 .125em .75rem;transition:transform .15s cubic-bezier(.4,0,.2,1)}
 .cta:hover .arrow,a.item:hover .arrow{transform:translateX(.5rem)}
 
 .white{background:#fff}
-.what{display:flex;flex-direction:column;row-gap:3rem;padding-block:4rem;border-bottom:1px solid #eee}
-.label{font-size:34px;font-weight:360;line-height:1.5;user-select:none}
+.what{display:flex;flex-direction:column;row-gap:1.5rem;padding-block:4rem;border-bottom:1px solid #eee;text-align:center}
+.what .lead{max-width:1024px;margin-inline:auto;text-wrap:balance}
+.label{font-size:34px;font-weight:360;line-height:1.5;text-wrap:balance;user-select:none}
 .lead{font-size:22px;line-height:1.4em;letter-spacing:.2px}
 .aside{margin-top:1.5rem;font-size:18px}
 .seen{display:flex;flex-direction:column;row-gap:3rem;padding-block:4rem;border-bottom:1px solid #eee}
@@ -100,7 +102,7 @@ footer{height:400px}.fc{padding-block:0}.fg{display:grid;grid-template-columns:r
 @media(min-width:768px){.blurb{width:50%}.headline,.title h1{font-size:80px}}
 @media(min-width:1024px){
 .headline{max-width:1024px}.headline,.title h1{font-size:98px}.cta{height:65px}
-.what{padding-block:150px}.what .lead{max-width:1024px}
+.what{padding-block:150px}
 .seen,.doc{padding-block:150px}
 .cols,.qa{display:grid;grid-template-columns:repeat(3,minmax(0,1fr))}.two{grid-template-columns:repeat(2,minmax(0,1fr))}
 .fc{padding-inline:3rem}}
